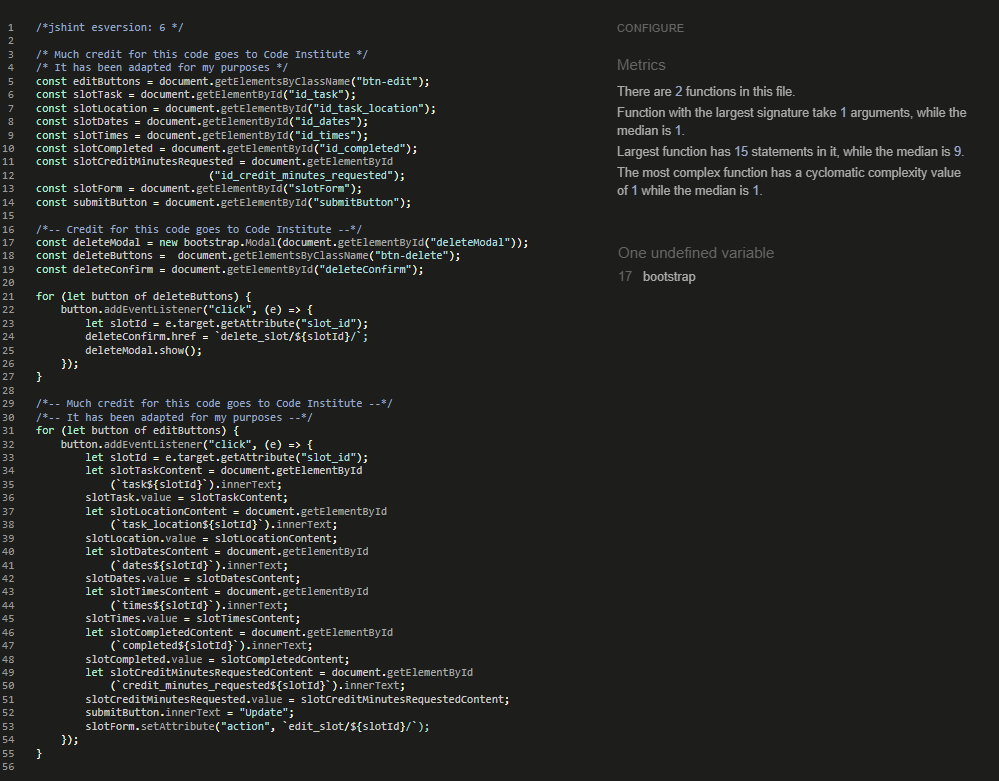
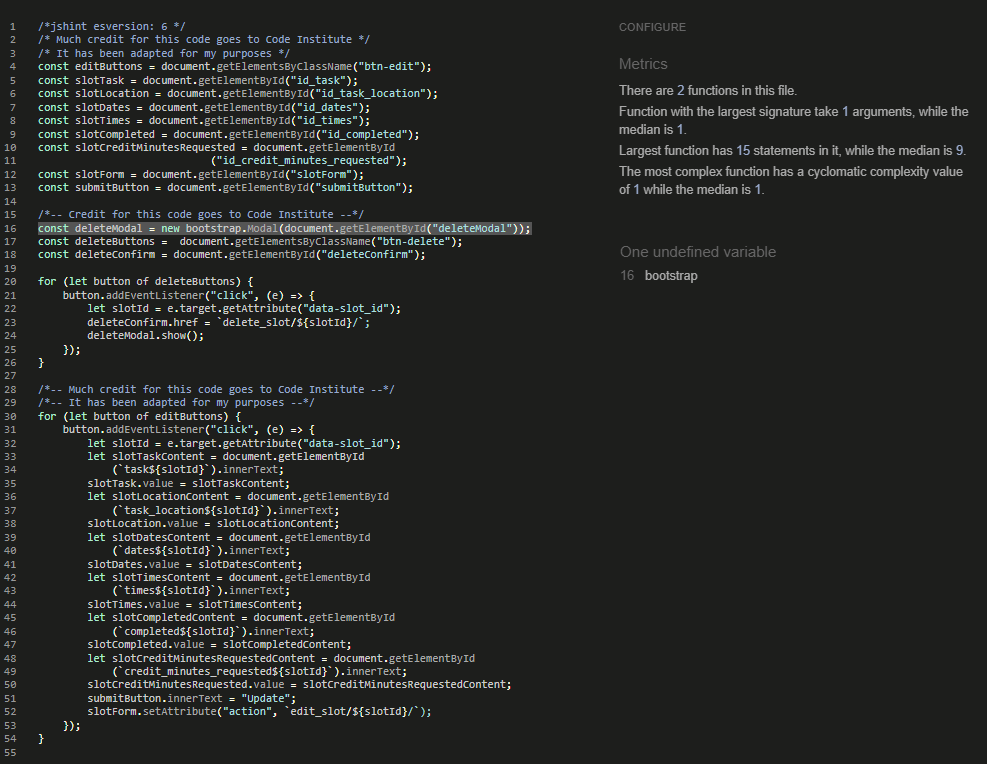
Replace jshint documentation with final version

diff --git a/volunteer/templates/volunteer/student_dashboard.html b/volunteer/templates/volunteer/student_dashboard.html
@@ -14,29 +14,49 @@ Student Dashboard
         <div class="dashboard container-fluid mt-0 bg-dark">
             <div class="row">
                 {% if user.profile %}
-                    <div class="col-sm-12 col-lg-4 mx-auto">
+                <div class="col-sm-12 col-lg-4 mx-auto">
                         {% if "placeholder" in user.profile.profile_pic.url %}
-                        <img src="{% static 'images/default-user.jpg' %}" class="img-fluid max-width=450px" alt="default user icon">
+                        <img src="{% static 'images/default-user.jpg' %}" 
+                            class="img-fluid max-width=450px" 
+                            alt="default user icon">
                         {% else %}
-                        <img src="{{ user.profile.profile_pic.url }}" class="img-fluid max-width=450px" alt="User profile picture">
+                        <img src="{{ user.profile.profile_pic.url }}" 
+                            class="img-fluid max-width=450px" 
+                            alt="User profile picture">
                         {% endif %}
-                    </div>
-                    <div class="col-sm-12 col-lg-8 text-center pt-5 mx-auto">
-                        <h1 class="py-2 mx-auto cabin-sketch-bold">{{ user.username }}'s Student Dashboard</h1>
-                        <h2 class="pt-3 pb-5">You are in homeroom number {{ user.profile.classroom.classroom_number }}</h2>
-                    </div>
+                </div>
+                <div class="col-sm-12 col-lg-8 text-center pt-5 mx-auto">
+                        <h1 class="py-2 mx-auto cabin-sketch-bold">
+                            {{ user.username }}'s Student Dashboard
+                        </h1>
+                        <h2 class="pt-3 pb-5">You are in homeroom number 
+                            {{ user.profile.classroom.classroom_number }}
+                        </h2>
+                </div>
                 {% else %}
                 <div class="col-sm-9 col-lg-8 mx-auto">
-                    <img src="{% static 'images/default-user.jpg' %}" class="img-fluid max-width=450px" alt="default user icon">
+                    <img src="{% static 'images/default-user.jpg' %}" 
+                        class="img-fluid max-width=450px" alt="default user icon">
                 </div>
                 <div class="col-sm-9 col-lg-8 text-center pt-5 mx-auto">
-                    <h1 class="py-2 mx-auto cabin-sketch-bold">{{ user.username }}'s Student Dashboard</h1>
-                    <h3><small>We do not have a profile set up for you yet,
-                        so you are not currently registered to a classroom.</small></h3>
-                    <h4 class="py-3">Send us a <a href="{% url 'send_message' %}" aria-label="link to contact form" class="light-message">message</a> and we'll get that taken care of!</h4>
-                    <p class="display-6">(In the meantime, you'll still enjoy full functionality!)</p>
-                {% endif %}
+                    <h1 class="py-2 mx-auto cabin-sketch-bold">
+                        {{ user.username }}'s Student Dashboard
+                    </h1>
+                    <h3>
+                        <small>We do not have a profile set up for you yet,
+                        so you are not currently registered to a classroom.</small>
+                    </h3>
+                    <h4 class="py-3">Send us a 
+                        <a href="{% url 'send_message' %}" 
+                            aria-label="link to contact form" class="light-message">
+                            message
+                        </a> and we'll get that taken care of!
+                    </h4>
+                    <p class="display-6">(In the meantime, you'll still 
+                        enjoy full functionality!)
+                    </p>
                 </div>
+                {% endif %}
             </div>
         </div>
     </section>
@@ -44,7 +64,8 @@ Student Dashboard
     <section id="manage-tasks">
         <div class="container-fluid">
             <div class="row">
-                <div class="col-sm-12 col-md-6 mx-auto justify-content-center legend">
+                <div class="col-sm-12 col-md-6 mx-auto 
+                    justify-content-center legend">
                     <table class="table">
                         <tr>
                             <th class="pt-5">Color</th>
@@ -68,13 +89,16 @@ Student Dashboard
                         </tr>
                         <tr class="table-danger">
                             <td>RED: </td>
-                            <td>Hmm, something odd here... <span class="question">(Did you forget to mark Complete before requesting credit?)</span></td>
+                            <td>Hmm, something odd here... <span class="question">
+                                (Did you forget to mark Complete before requesting 
+                                credit?)</span>
+                            </td>
                         </tr>
                     </table>
                 </div>
             </div>
         </div>
-        <div class="container-fluid flex">
+        <div class="container-fluid">
             {% if slots %}
             <!-- List of slots reserved by the current user -->
             <div class="row">
@@ -123,11 +147,13 @@ Student Dashboard
             <!--Message to user with no slots saved yet-->
             <div class="row">
                 <div class="col-12 text-center">
-                    <h3 class="display-4 no-tasks-message py-5">You currently have no tasks planned!</h3>
-                        <p class="display-5 pb-5">Visit the
-                            <a href="{% url 'beneficiaries' %}" aria-label="link to volunteer page">
-                                Volunteer</a> page to start adding tasks.
-                        </p>
+                    <h3 class="display-4 no-tasks-message py-5">
+                        You currently have no tasks planned!
+                    </h3>
+                    <p class="display-5 pb-5">Visit the
+                        <a href="{% url 'beneficiaries' %}" aria-label="link to volunteer page">
+                            Volunteer</a> page to start adding tasks.
+                    </p>
                 </div>
             </div>
             <div class="row">
@@ -153,11 +179,14 @@ Student Dashboard
                     </h6>
                 </div>
                 <div class="col-4 p-2 text-center">
-                    <h6>Hours needed for graduation: <span id="required-hours">30</span></h6>
+                    <h6>Hours needed for graduation: 
+                        <span id="required-hours">30</span>
+                    </h6>
                 </div>
                 <div class="col-4 p-2">
                     <h6>Remaining time required: <span id="remaining-hours">
-                        </span> hours, <span id="plus-remaining-minutes"></span> minutes</h6>
+                        </span> hours, <span id="plus-remaining-minutes"></span> minutes
+                    </h6>
                 </div>
             </div>
         </div>
@@ -168,19 +197,28 @@ Student Dashboard
     </div>
 {% endif %}
 <!-- delete modal-->
-<div id="deleteModalDashboard" class="modal" tabindex="-1" aria-labelledby="deleteModalDashboardLabel" aria-hidden="True">
+<div id="deleteModalDashboard" class="modal" tabindex="-1" 
+        aria-labelledby="deleteModalDashboardLabel" aria-hidden="True">
     <div class="modal-dialog">
         <div class="modal-content">
             <div class="modal-header">
-                <h5 id="deleteModalDashboardLabel" class="modal-title">Are you sure?</h5>
-                <button type="button" class="btn-close" data-bs-dismiss="modal" aria-label="Close"></button>
+                <h5 id="deleteModalDashboardLabel" class="modal-title">
+                    Are you sure?
+                </h5>
+                <button type="button" class="btn-close" 
+                    data-bs-dismiss="modal" aria-label="Close">
+                </button>
             </div>
             <div class="modal-body">
                 <p>This action cannot be undone!
             </div>
             <div class="modal-footer">
-                <button type="button" class="btn btn-secondary" data-bs-dismiss="modal">Cancel</button>
-                <a id="deleteConfirmDashboard" href="#" class="btn btn-danger">Delete</a>
+                <button type="button" class="btn btn-secondary" 
+                    data-bs-dismiss="modal">Cancel
+                </button>
+                <a id="deleteConfirmDashboard" href="#" 
+                    class="btn btn-danger">Delete
+                </a>
             </div>
         </div>
     </div>

diff --git a/volunteer/templates/volunteer/beneficiary_detail.html b/volunteer/templates/volunteer/beneficiary_detail.html
@@ -19,34 +19,43 @@ Beneficiary Details
                             class="card-img-top" alt="placeholder image">
                     {% else %}
                         <img src="{{ beneficiary.featured_image.url }}"
-                            class="card-img-top" alt="{{ beneficiary.beneficiary_name }}">
+                            class="card-img-top" 
+                            alt="{{ beneficiary.beneficiary_name }}">
                     {% endif %}
                     <div class="card-body">
                         <h5 class="card-title">{{ beneficiary.beneficiary_name }}</h5>
-                        <p class="card-text">{{ beneficiary.description | safe }}</p>
+                        <article class="card-text">{{ beneficiary.description | safe }}</article>
                         <p class="card-text">{{ beneficiary.location }}</p>
                         <p class="card-text">{{ beneficiary.contact_details }}</p>
-                        <p class="card-text">Tasks planned by WCHS students: {{ slots_created_count }}</p>
-                        <p class="card-text">Tasks completed by WCHS students: {{ slots_completed_count }}</p>
+                        <p class="card-text">Tasks planned by WCHS students: 
+                            {{ slots_created_count }}</p>
+                        <p class="card-text">Tasks completed by WCHS students: 
+                            {{ slots_completed_count }}</p>
                     </div>
                 </div>
             </div>
             <!-- Reserve slots -->
             <div class="col-sm-12 col-md-6">
                 {% if user.is_authenticated %}
-                <h3 class="display-4 py-3">Fill in the form to add a task related to {{ beneficiary.beneficiary_name }} to your dashboard.</h3>
-                <h4 class="display-6 py-2">You can manage the details and update your tasks on your 
-                    <a href="{% url 'student_dashboard' %}" aria-label="link to dashboard">dashboard</a>.</h4>
-                <p class="graduate-bold pt-2">Reservation for username: {{ user.username }}</p>
+                <h3 class="display-4 py-3">Fill in the form to add a task related to 
+                    {{ beneficiary.beneficiary_name }} to your dashboard.</h3>
+                <h4 class="display-6 py-2">You can manage the details and update your 
+                    tasks on your <a href="{% url 'student_dashboard' %}" 
+                    aria-label="link to dashboard">dashboard</a>.</h4>
+                <p class="graduate-bold pt-2">Reservation for username: 
+                    {{ user.username }}</p>
                 <form id="slotForm" class="mb-5" method="post">
                     {{ form | crispy }}
                     {% csrf_token %}
-                    <button id="submitButton" type="submit" class="btn btn-secondary btn-lg">Save to Dashboard</button>
+                    <button id="submitButton" type="submit" 
+                        class="btn btn-secondary btn-lg">Save to Dashboard</button>
                 </form>
                 {% else %}
-                <h3 class="display-2">You must be logged in to save a task to your dashboard.
+                <h3 class="display-2">You must be logged in to save a task 
+                    to your dashboard.
                     <a href="{{ login_url }}" value="login"
-                        aria-label="link to log in" class="btn btn-primary btn-lg">Log In</a>
+                        aria-label="link to log in" 
+                        class="btn btn-primary btn-lg">Log In</a>
                 </h3>
                 {% endif %}
             </div>
@@ -54,12 +63,14 @@ Beneficiary Details
     </div>
 </section>
 <!--List of published slots (and all reserved by current user) -->
-<section id="Planned tasks">
+<section id="schoolwide-planned-tasks">
     <div class="container-fluid slots-list">
         <div class="row">
             <div class="col-12 p-2 py-5 text-center">
                 <h2 class="display-4">What's been saved to students' dashboards:</h2>
-                <h3><small>Tasks are listed publicly at the discretion of school staff (so be polite!)</small></h3>
+                <h3><small>Tasks are listed publicly at the discretion of 
+                        school staff (so be polite!)</small>
+                </h3>
             </div>
             <div class="row mb-5">
                 {% for slot in slots %}
@@ -72,7 +83,8 @@ Beneficiary Details
                             <span>Task: </span>
                             <span id="task{{ slot.id }}">{{ slot.task }}</span><br>
                             <span>Location: </span>
-                            <span id="task_location{{ slot.id }}">{{ slot.task_location }}</span><br>
+                            <span id="task_location{{ slot.id }}">
+                                {{ slot.task_location }}</span><br>
                             <span>Dates: </span>
                             <span id="dates{{ slot.id }}">{{ slot.dates }}</span><br>
                             <span>Times: </span>
@@ -87,8 +99,10 @@ Beneficiary Details
                                 appears on your dashboard!</span><br>
                             {% endif %}
                             {% if user.is_authenticated and slot.reserved_by == user %}
-                            <span><button class="btn btn-edit btn-secondary btn-sm" slot_id="{{ slot.id }}">Edit</button> </span>
-                            <span> <button class="btn btn-delete btn-danger btn-sm" slot_id="{{ slot.id }}">Delete</button></span>
+                            <span><button class="btn btn-edit btn-secondary btn-sm" 
+                                data-slot_id="{{ slot.id }}">Edit</button> </span>
+                            <span> <button class="btn btn-delete btn-danger btn-sm" 
+                                data-slot_id="{{ slot.id }}">Delete</button></span>
                             {% endif %}
                         </div>
                     </div>
@@ -99,19 +113,26 @@ Beneficiary Details
     </div>
 </section>
 <!-- The delete modal -->
-<div id="deleteModal" class="modal" tabindex="-1" aria-labelledby="deleteModalLabel" aria-hidden="True">
+<div id="deleteModal" class="modal" tabindex="-1" 
+        aria-labelledby="deleteModalLabel" aria-hidden="True">
     <div class="modal-dialog">
         <div class="modal-content">
             <div class="modal-header">
-                <h5 id="deleteModalLabel" class="modal-title">Are you sure?</h5>
-                <button type="button" class="btn-close" data-bs-dismiss="modal" aria-label="Close"></button>
+                <h5 id="deleteModalLabel" class="modal-title">
+                    Are you sure?
+                </h5>
+                <button type="button" class="btn-close" 
+                    data-bs-dismiss="modal" aria-label="Close"></button>
             </div>
             <div class="modal-body">
                 <p>This action cannot be undone!
-                    </br>You can always manage your tasks from your student dashboard.</p>
+                    <br>You can always manage your tasks from your 
+                        student dashboard.
+                    </p>
             </div>
             <div class="modal-footer">
-                <button type="button" class="btn btn-secondary" data-bs-dismiss="modal">Cancel</button>
+                <button type="button" class="btn btn-secondary" 
+                    data-bs-dismiss="modal">Cancel</button>
                 <a id="deleteConfirm" href="#" class="btn btn-danger">Delete</a>
             </div>
         </div>

diff --git a/static/js/slots.js b/static/js/slots.js
@@ -18,7 +18,7 @@ const deleteConfirm = document.getElementById("deleteConfirm");
 
 for (let button of deleteButtons) {
     button.addEventListener("click", (e) => {
-        let slotId = e.target.getAttribute("slot_id");
+        let slotId = e.target.getAttribute("data-slot_id");
         deleteConfirm.href = `delete_slot/${slotId}/`;
         deleteModal.show();
     });
@@ -28,7 +28,7 @@ for (let button of deleteButtons) {
 /*-- It has been adapted for my purposes --*/
 for (let button of editButtons) {
     button.addEventListener("click", (e) => {
-        let slotId = e.target.getAttribute("slot_id");
+        let slotId = e.target.getAttribute("data-slot_id");
         let slotTaskContent = document.getElementById
             (`task${slotId}`).innerText;
         slotTask.value = slotTaskContent;

diff --git a/TESTING.md b/TESTING.md
@@ -45,7 +45,7 @@ I decided that the F401 errors were unimportant, as they involved only the impor
 ### JavaScript
 The two JavaScript files I created for Be a Dear are slots.js (in the static folder of the be_a_dear project) and dashboard.js (in the static folder of the volunteer app). I ran these through JSHint and there are no errors. One comment occurs on each, however, regarding bootstrap--that it is an undefined variable. I believe that this is down to the fact that the linter cannot see what is in the rest of my project, such as the bootstrap script being loaded at the bottom of my templates. I decided that this comment was safe to ignore. The results are shown below.
 
-![JSHint validation result for slots.js](documentation/jshint-slotsjs.png)
+![JSHint validation for slots.js](documentation/jshint-slotsjs.png)
 
 ![JSHint validation result for dashboard.js](documentation/jshint-dashboard.png)
 
